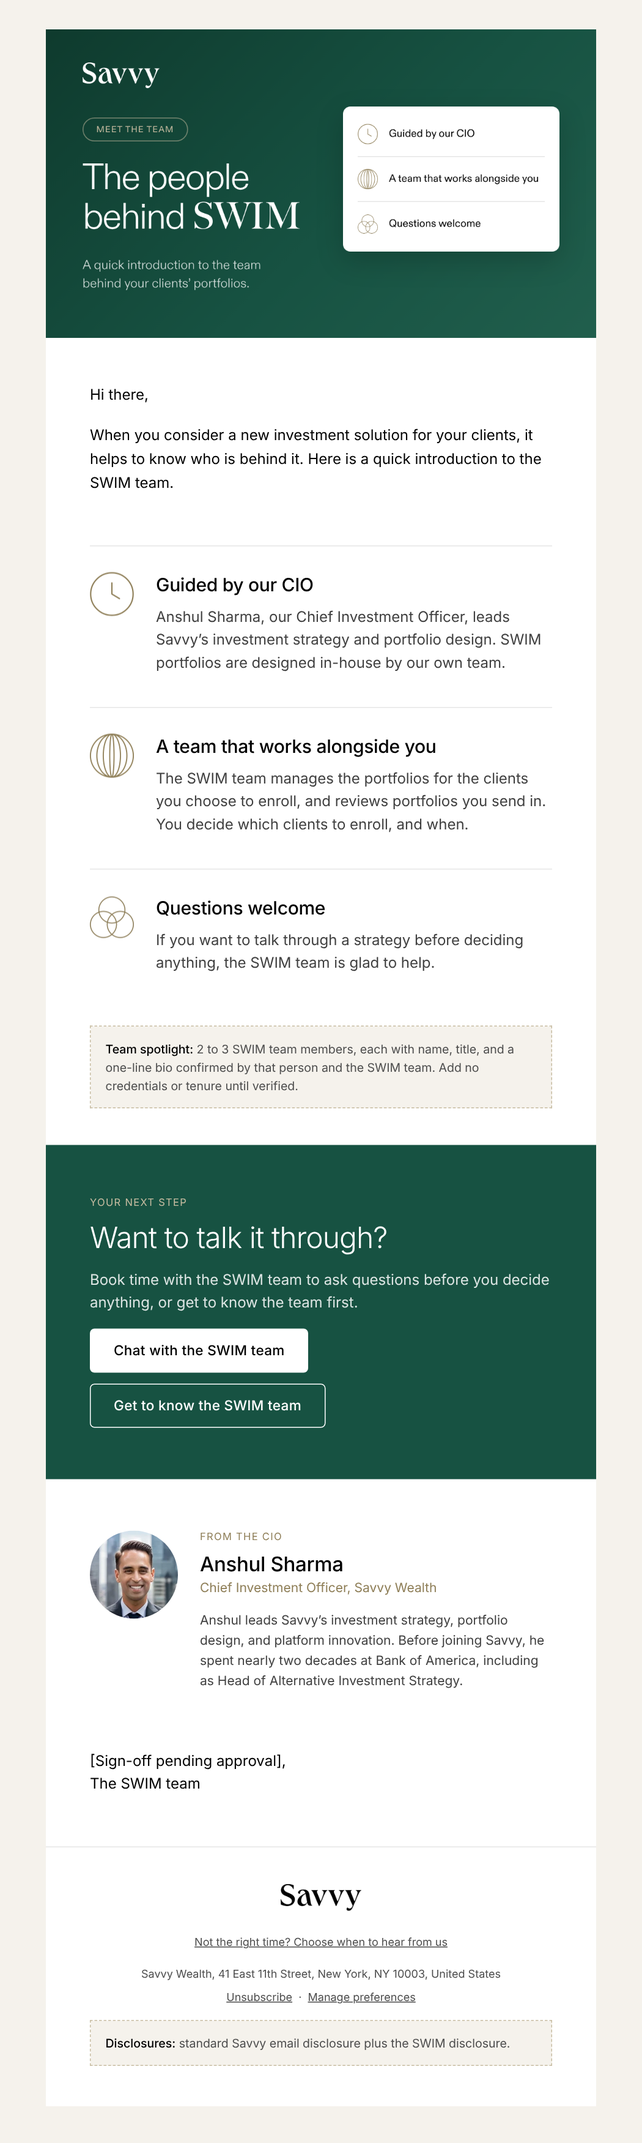
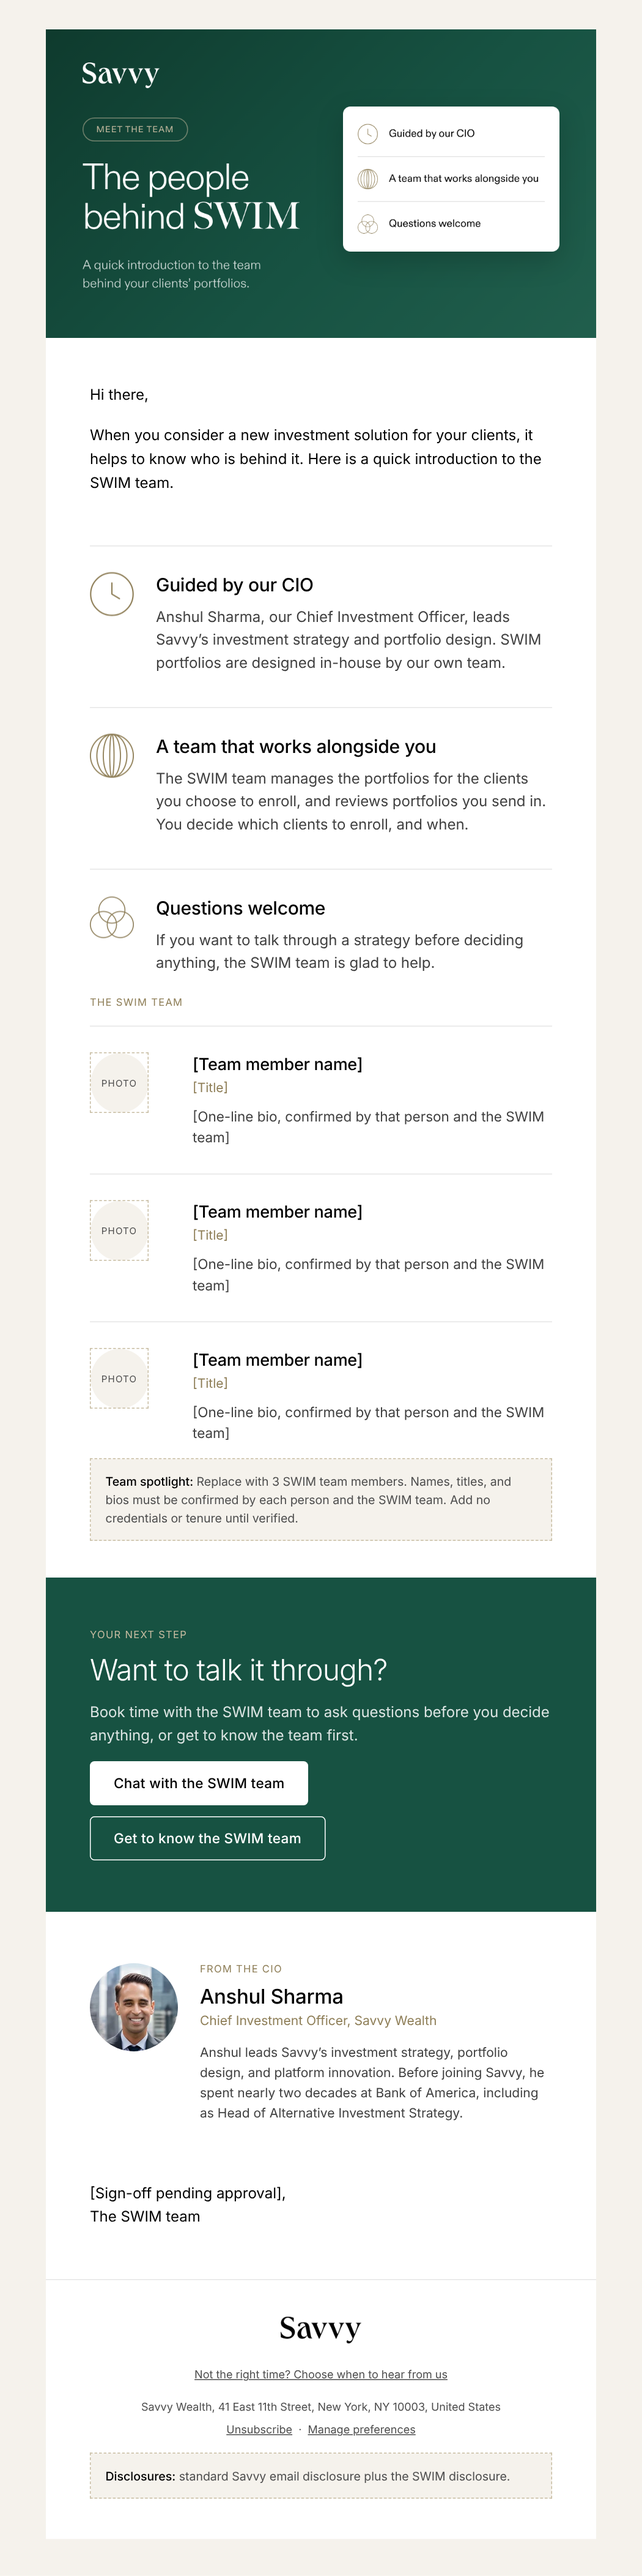
Email 2: team spotlight placeholders (3 members)
Claude-Session: https://claude.ai/code/session_01C4U8FBFynJxChWkXC4yVRQ

diff --git a/emails/nurture-2.html b/emails/nurture-2.html
@@ -88,9 +88,45 @@
       </table>
     </td></tr>
 
-    <tr><td class="px" style="padding:32px 48px 0;">
-<table role="presentation" width="100%" cellpadding="0" cellspacing="0" border="0" style="margin-top:16px;"><tr>
-      <td bgcolor="#F5F2EC" style="background:#F5F2EC;border:1px dashed #C7BCA1;padding:14px 16px;font-family:'Inter',Arial,Helvetica,sans-serif;font-size:13px;line-height:20px;color:#4D4D4D;"><span style="font-weight:500;color:#000000;">Team spotlight:</span> 2 to 3 SWIM team members, each with name, title, and a one-line bio confirmed by that person and the SWIM team. Add no credentials or tenure until verified.</td>
+    <tr><td class="px" style="padding:16px 48px 0;">
+<div style="margin-top:0px;font-family:'Inter',Arial,Helvetica,sans-serif;font-size:11px;line-height:12px;letter-spacing:0.08em;text-transform:uppercase;color:#8E7E57;">The SWIM team</div><table role="presentation" width="100%" cellpadding="0" cellspacing="0" border="0" style="margin-top:20px;">
+        <tr><td style="border-top:1px solid #E6E6E6;padding:28px 0 28px;">
+          <table role="presentation" width="100%" cellpadding="0" cellspacing="0" border="0"><tr>
+            <td class="stack" width="88" valign="top" style="width:88px;padding-right:24px;">
+              <table role="presentation" width="64" height="64" cellpadding="0" cellspacing="0" border="0"><tr><td align="center" valign="middle" bgcolor="#F5F2EC" style="width:64px;height:64px;background:#F5F2EC;border:1px dashed #C7BCA1;border-radius:50%;font-family:'Inter',Arial,Helvetica,sans-serif;font-size:10px;line-height:12px;letter-spacing:0.08em;text-transform:uppercase;color:#4D4D4D;">Photo</td></tr></table>
+            </td>
+            <td class="stack" valign="top" style="font-family:'Inter',Arial,Helvetica,sans-serif;">
+              <div style="font-weight:500;font-size:18px;line-height:26px;letter-spacing:-0.01em;color:#000000;">[Team member name]</div>
+              <div style="margin-top:2px;font-size:14px;line-height:20px;color:#8E7E57;">[Title]</div>
+              <div style="margin-top:10px;font-size:15px;line-height:23px;color:#404040;">[One-line bio, confirmed by that person and the SWIM team]</div>
+            </td>
+          </tr></table>
+        </td></tr>
+        <tr><td style="border-top:1px solid #E6E6E6;padding:28px 0 28px;">
+          <table role="presentation" width="100%" cellpadding="0" cellspacing="0" border="0"><tr>
+            <td class="stack" width="88" valign="top" style="width:88px;padding-right:24px;">
+              <table role="presentation" width="64" height="64" cellpadding="0" cellspacing="0" border="0"><tr><td align="center" valign="middle" bgcolor="#F5F2EC" style="width:64px;height:64px;background:#F5F2EC;border:1px dashed #C7BCA1;border-radius:50%;font-family:'Inter',Arial,Helvetica,sans-serif;font-size:10px;line-height:12px;letter-spacing:0.08em;text-transform:uppercase;color:#4D4D4D;">Photo</td></tr></table>
+            </td>
+            <td class="stack" valign="top" style="font-family:'Inter',Arial,Helvetica,sans-serif;">
+              <div style="font-weight:500;font-size:18px;line-height:26px;letter-spacing:-0.01em;color:#000000;">[Team member name]</div>
+              <div style="margin-top:2px;font-size:14px;line-height:20px;color:#8E7E57;">[Title]</div>
+              <div style="margin-top:10px;font-size:15px;line-height:23px;color:#404040;">[One-line bio, confirmed by that person and the SWIM team]</div>
+            </td>
+          </tr></table>
+        </td></tr>
+        <tr><td style="border-top:1px solid #E6E6E6;padding:28px 0 0;">
+          <table role="presentation" width="100%" cellpadding="0" cellspacing="0" border="0"><tr>
+            <td class="stack" width="88" valign="top" style="width:88px;padding-right:24px;">
+              <table role="presentation" width="64" height="64" cellpadding="0" cellspacing="0" border="0"><tr><td align="center" valign="middle" bgcolor="#F5F2EC" style="width:64px;height:64px;background:#F5F2EC;border:1px dashed #C7BCA1;border-radius:50%;font-family:'Inter',Arial,Helvetica,sans-serif;font-size:10px;line-height:12px;letter-spacing:0.08em;text-transform:uppercase;color:#4D4D4D;">Photo</td></tr></table>
+            </td>
+            <td class="stack" valign="top" style="font-family:'Inter',Arial,Helvetica,sans-serif;">
+              <div style="font-weight:500;font-size:18px;line-height:26px;letter-spacing:-0.01em;color:#000000;">[Team member name]</div>
+              <div style="margin-top:2px;font-size:14px;line-height:20px;color:#8E7E57;">[Title]</div>
+              <div style="margin-top:10px;font-size:15px;line-height:23px;color:#404040;">[One-line bio, confirmed by that person and the SWIM team]</div>
+            </td>
+          </tr></table>
+        </td></tr></table><table role="presentation" width="100%" cellpadding="0" cellspacing="0" border="0" style="margin-top:16px;"><tr>
+      <td bgcolor="#F5F2EC" style="background:#F5F2EC;border:1px dashed #C7BCA1;padding:14px 16px;font-family:'Inter',Arial,Helvetica,sans-serif;font-size:13px;line-height:20px;color:#4D4D4D;"><span style="font-weight:500;color:#000000;">Team spotlight:</span> Replace with 3 SWIM team members. Names, titles, and bios must be confirmed by each person and the SWIM team. Add no credentials or tenure until verified.</td>
     </tr></table>
     </td></tr>
 

diff --git a/emails/build_emails.py b/emails/build_emails.py
@@ -325,7 +325,27 @@ e2 += items([
     dict(icon="globe", title="A team that works alongside you", body=p("The SWIM team manages the portfolios for the clients you choose to enroll, and reviews portfolios you send in. You decide which clients to enroll, and when.")),
     dict(icon="circles", title="Questions welcome", body=p("If you want to talk through a strategy before deciding anything, the SWIM team is glad to help.")),
 ])
-e2 += section(note("2 to 3 SWIM team members, each with name, title, and a one-line bio confirmed by that person and the SWIM team. Add no credentials or tenure until verified.", label="Team spotlight"), pad="32px 48px 0")
+def member(last=False):
+    pad = "28px 0 0" if last else "28px 0 28px"
+    return f"""
+        <tr><td style="border-top:1px solid {DIV};padding:{pad};">
+          <table role="presentation" width="100%" cellpadding="0" cellspacing="0" border="0"><tr>
+            <td class="stack" width="88" valign="top" style="width:88px;padding-right:24px;">
+              <table role="presentation" width="64" height="64" cellpadding="0" cellspacing="0" border="0"><tr><td align="center" valign="middle" bgcolor="#F5F2EC" style="width:64px;height:64px;background:#F5F2EC;border:1px dashed #C7BCA1;border-radius:50%;font-family:{SANS};font-size:10px;line-height:12px;letter-spacing:0.08em;text-transform:uppercase;color:#4D4D4D;">Photo</td></tr></table>
+            </td>
+            <td class="stack" valign="top" style="font-family:{SANS};">
+              <div style="font-weight:500;font-size:18px;line-height:26px;letter-spacing:-0.01em;color:#000000;">[Team member name]</div>
+              <div style="margin-top:2px;font-size:14px;line-height:20px;color:#8E7E57;">[Title]</div>
+              <div style="margin-top:10px;font-size:15px;line-height:23px;color:{TXT};">[One-line bio, confirmed by that person and the SWIM team]</div>
+            </td>
+          </tr></table>
+        </td></tr>"""
+
+
+spotlight = (eyebrow("The SWIM team") + '<table role="presentation" width="100%" cellpadding="0" cellspacing="0" border="0" style="margin-top:20px;">'
+             + member() + member() + member(True) + '</table>'
+             + note("Replace with 3 SWIM team members. Names, titles, and bios must be confirmed by each person and the SWIM team. Add no credentials or tenure until verified.", label="Team spotlight"))
+e2 += section(spotlight, pad="16px 48px 0")
 e2 += band("Your next step", "Want to talk it through?",
            "Book time with the SWIM team to ask questions before you decide anything, or get to know the team first.",
            [("Chat with the SWIM team", "primary"), ("Get to know the SWIM team", "secondary")])
